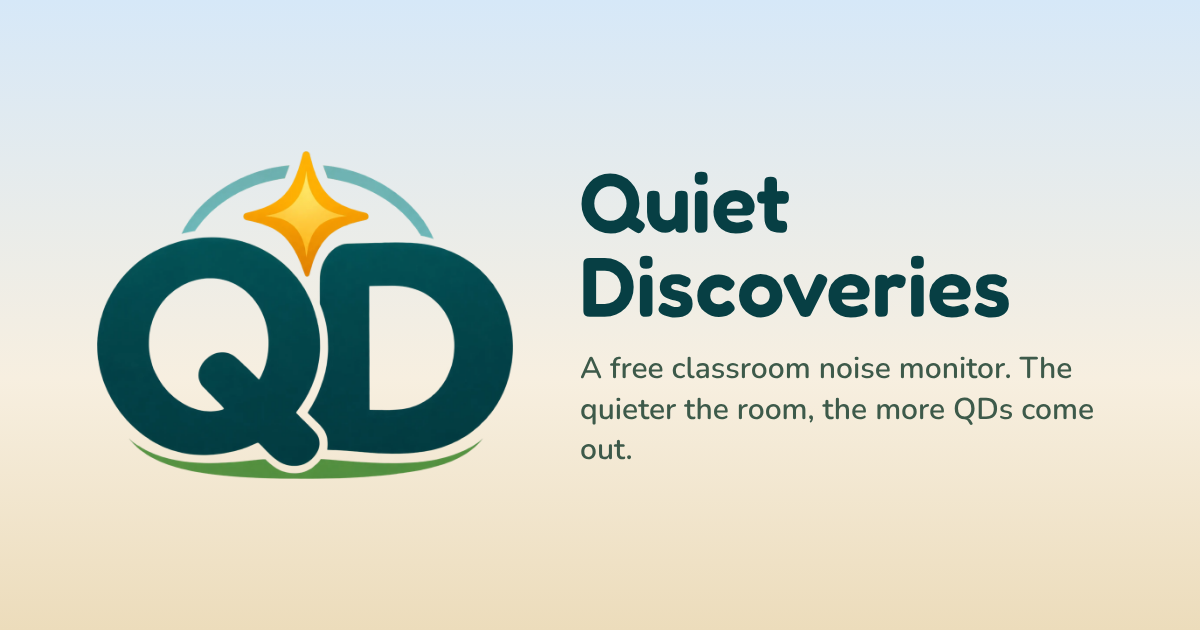
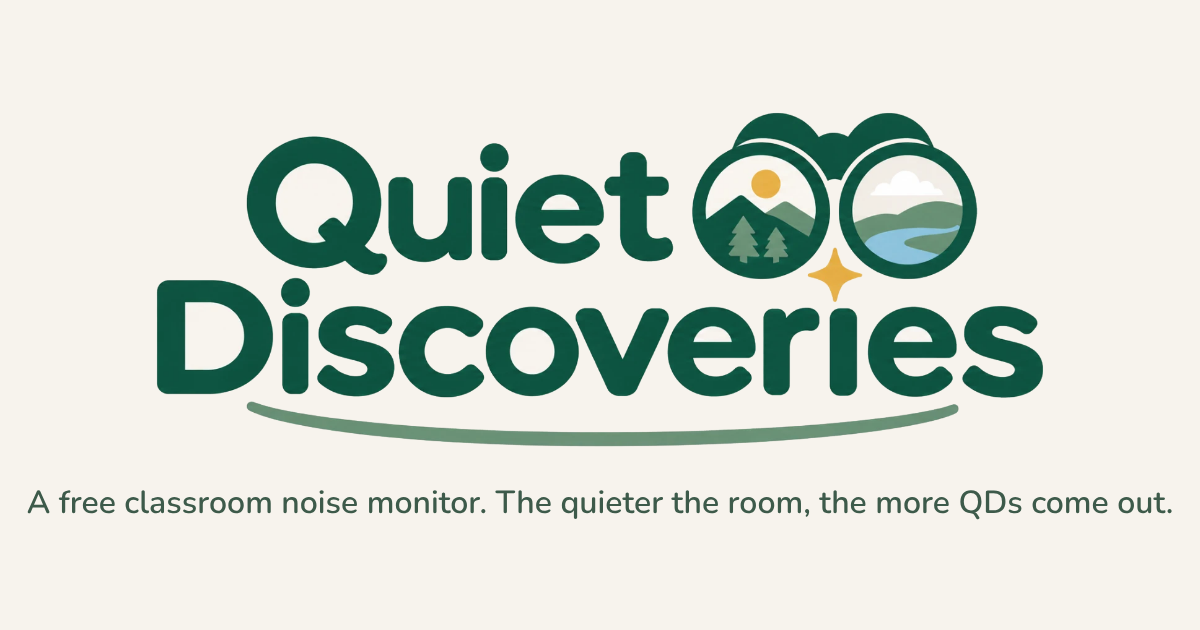
Use the full Quiet Discoveries wordmark where there is room
The wordmark (static/wordmark.png) heads the home screen, the start
menu and the about and privacy pages, and the link preview is made from
it. The QD logo stays on the small round button and the icons.

Claude-Session: https://claude.ai/code/session_019VbWVwn7H1JpcJMDQ7bnfp

diff --git a/src/lib/components/StartMenu.svelte b/src/lib/components/StartMenu.svelte
@@ -19,7 +19,7 @@
   import { onMount } from "svelte";
   import SceneSelect from "./SceneSelect.svelte";
   // In static/, so it loads under any base path (the demo runs in one).
-  const logoUrl = asset("/logo.png");
+  const wordmarkUrl = asset("/wordmark.png");
 
   let {
     app,
@@ -138,13 +138,12 @@
           </svg>
         </button>
       {/if}
-      <img
-        src={logoUrl}
-        alt=""
-        class="mx-auto mb-3 size-24 object-contain short:mb-1 short:size-14"
-      />
-      <h1 class="text-2xl font-semibold text-slate-900 short:text-xl">
-        Quiet Discoveries
+      <h1>
+        <img
+          src={wordmarkUrl}
+          alt="Quiet Discoveries"
+          class="mx-auto mb-1 h-28 w-auto max-w-full object-contain short:h-16"
+        />
       </h1>
       <p
         class="mt-3 rounded-lg bg-amber-50 px-4 py-3 text-balance text-slate-800 short:mt-2 short:py-2 short:text-sm"

diff --git a/src/lib/components/home/SiteHeader.svelte b/src/lib/components/home/SiteHeader.svelte
@@ -7,7 +7,7 @@
   import { asset, resolve } from "$app/paths";
   import type { Snippet } from "svelte";
   // In static/, so it loads under any base path (the demo runs in one).
-  const logoUrl = asset("/logo.png");
+  const wordmarkUrl = asset("/wordmark.png");
 
   let { children }: { children: Snippet } = $props();
 </script>
@@ -20,8 +20,11 @@
       href={resolve("/")}
       class="flex items-center gap-3 rounded-lg hover:text-pine-800"
     >
-      <img src={logoUrl} alt="" class="h-11 w-auto sm:h-14" />
-      Quiet Discoveries
+      <img
+        src={wordmarkUrl}
+        alt="Quiet Discoveries"
+        class="h-16 w-auto sm:h-20"
+      />
     </a>
   </h1>
   <div class="ml-auto flex flex-wrap items-center justify-end gap-2 sm:gap-3">

diff --git a/src/lib/components/DocPage.svelte b/src/lib/components/DocPage.svelte
@@ -11,7 +11,7 @@
   import { t } from "$lib/i18n/index.svelte";
   import type { Snippet } from "svelte";
   // In static/, so it loads under any base path (the demo runs in one).
-  const logoUrl = asset("/logo.png");
+  const wordmarkUrl = asset("/wordmark.png");
 
   let {
     title,
@@ -31,8 +31,11 @@
         href={resolve("/")}
         class="flex items-center gap-2 text-lg font-semibold tracking-tight hover:text-slate-600"
       >
-        <img src={logoUrl} alt="" class="size-9 object-contain" />
-        Quiet Discoveries
+        <img
+          src={wordmarkUrl}
+          alt="Quiet Discoveries"
+          class="h-12 w-auto object-contain"
+        />
       </a>
       <div class="flex items-center gap-2">
         <a
